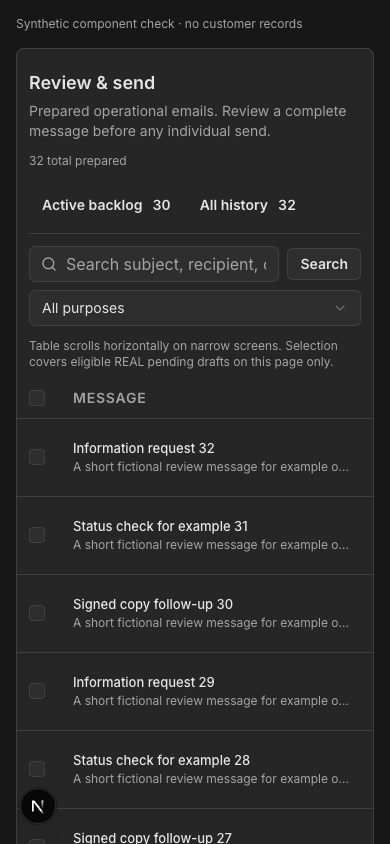
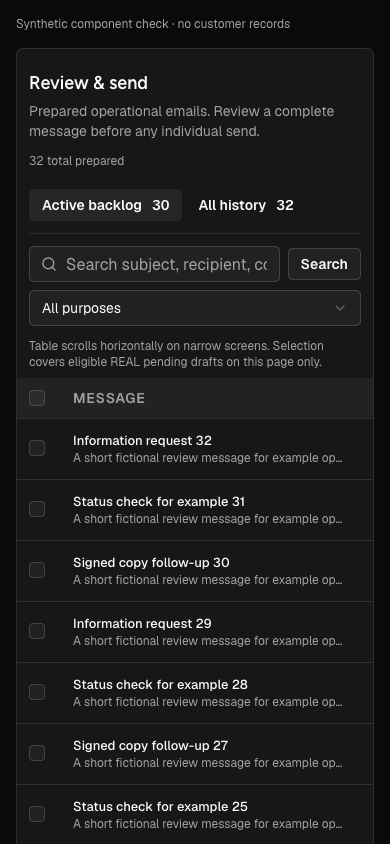
docs(email): refresh queue proof on released theme

diff --git a/docs/design-reference/email-review-221/README.md b/docs/design-reference/email-review-221/README.md
@@ -13,9 +13,12 @@ under the 27 September `email-review-prototype`. Its two real-data snapshots
 and `src/drafts.ts` were deliberately excluded. No prototype data or
 unreviewed ReUI scaffold was copied into the application.
 
-These four screenshots render the actual `ReviewQueue` component in a
+These five screenshots render the actual `ReviewQueue` component in a
 localhost-only, temporary synthetic route with `example.invalid` addresses
-and fictional names. They show desktop/mobile and light/dark presentation.
+and fictional names on the released neutral Vega theme baseline
+(`8b8be3b78e79df6e3366c87d59e9fea552b8ca0a`). They show desktop/mobile
+and light/dark presentation, including the horizontally scrolled mobile
+columns.
 The temporary route is removed before commit. The screenshots are a layout
 reference, not a production-data, authentication or database-migration claim.
 
@@ -23,6 +26,7 @@ reference, not a production-data, authentication or database-migration claim.
 - `queue-mobile-light.png`
 - `queue-desktop-dark.png`
 - `queue-mobile-dark.png`
+- `queue-mobile-columns-dark.png`
 
 The production queue uses the existing Radix/shadcn controls and the
 service-role-only canonical projection in migration 130. E6 company remains
